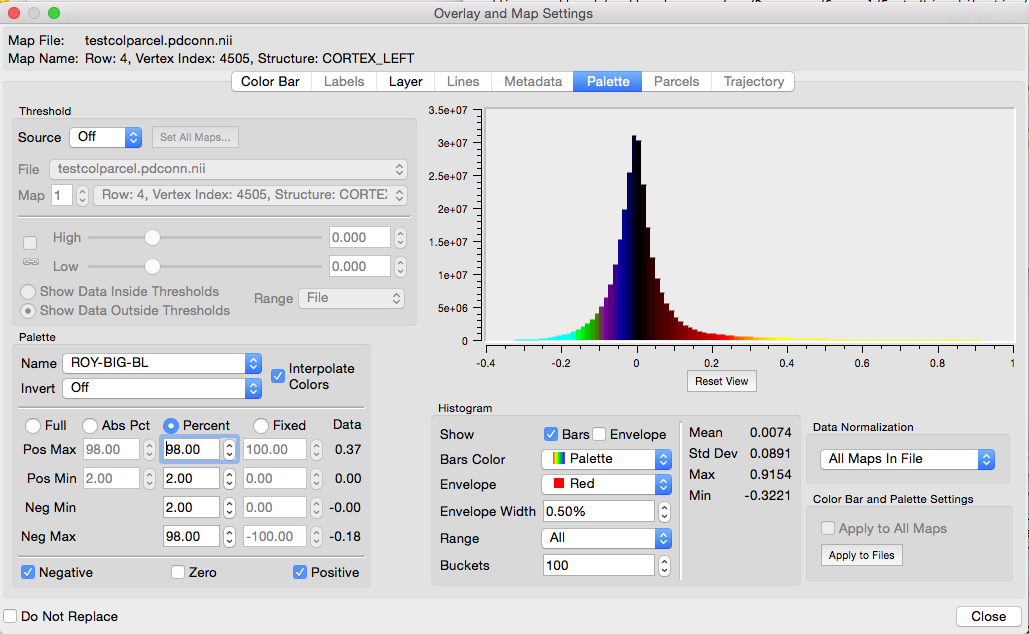
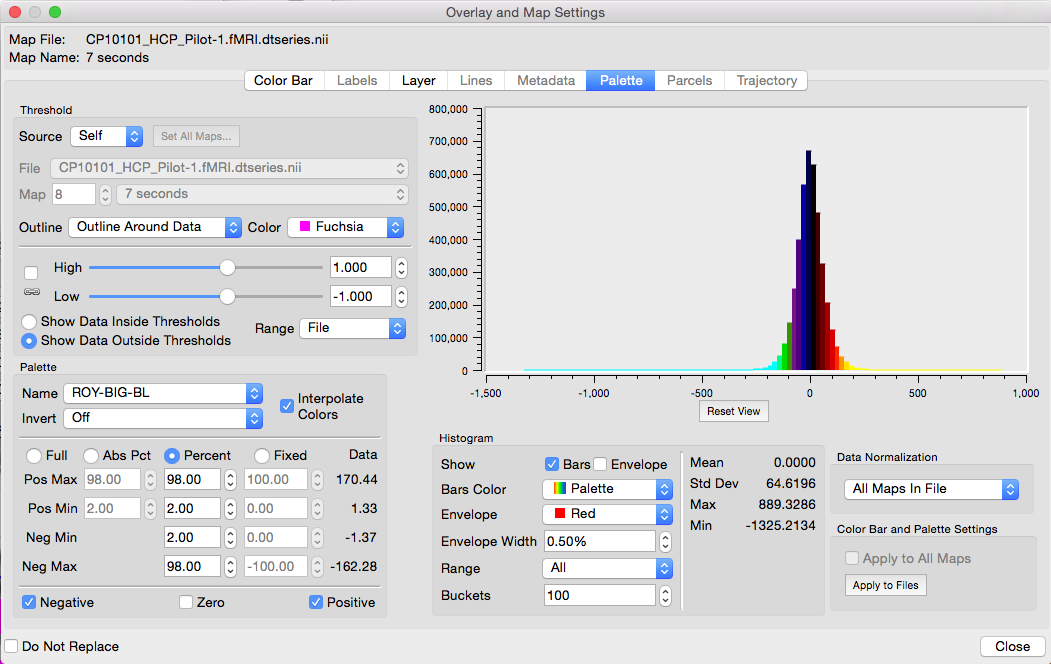
Updated help information with Threshold Outline for Palette Settings and URL fixes for GIFTI and NIFTI help.

Changed region(s): [[0.0, 0.0, 1.0, 1.0], [0.0, 0.959, 0.1244, 0.989]]

diff --git a/src/Resources/Help/HelpFiles/Overlay_Toolbox/Layers/Overlay_and_Map_Settings/Overlay_and_Map_Settings.html b/src/Resources/Help/HelpFiles/Overlay_Toolbox/Layers/Overlay_and_Map_Settings/Overlay_and_Map_Settings.html
@@ -62,6 +62,7 @@
 
 
 
+
                 </b></u><u><b>F</b></u><u><b>iles</b></u></a>.</font> </li>
       </ul>
       <ul>
@@ -101,11 +102,19 @@
               (allows thresholding using a map from the same or
               different file).&nbsp; <b>Range</b> controls the minimum
               and maximum values in the threshold controls.&nbsp; <b>Data
-                Nor</b><b>malization</b> affects the histogram.&nbsp; When
-              <b>All Maps I</b><b>n File</b>, the histogram contains
-              data from all maps in the data file.&nbsp; When <b>Sele</b><b>cted
-                Map in File</b>, the histogram contains the selected map.&nbsp;</font>
-          </li>
+
+                Nor</b><b>malization</b> affects the histogram.&nbsp;
+              When <b>All Maps I</b><b>n File</b>, the histogram
+              contains data from all maps in the data file.&nbsp; When <b>Sele</b><b>cted
+
+                Map in File</b>, the histogram contains the selected
+              map. &nbsp; <b>Outline</b> allows one to draw an outline
+              around thresholded regions using <b>Off</b> (no outlining),
+              <b>Outline Only</b> (Outline is drawn around regions and
+              data within the region is hidden), and <b>Outline Around
+                Data</b> (Outline is drawn around thresholded regions
+              and data within regions is visible).&nbsp; <b>C</b><b>o</b><b>lor</b>
+              selects the outline color.</font> </li>
         </ul>
       </blockquote>
       <blockquote>
@@ -121,6 +130,7 @@
         <ul>
           <li><font face="Calibri"><a
                 href="../../../Mouse_Controls/Mouse_Controls.html"><u><b>Mouse
+
 
 
 
@@ -169,8 +179,8 @@
             </font></font></li>
       </ul>
       <font face="Calibri"><font face="Calibri"><br>
-          <img alt="" src="Palette_Settings.png" width="1029"
-            height="634"><br>
+          <img alt="" src="Palette_Settings.png" width="1051"
+            height="664"><br>
         </font></font><br>
     </font>
   </body>

diff --git a/src/Resources/Help/HelpFiles/Glossary/NIFTI/NIFTI.html b/src/Resources/Help/HelpFiles/Glossary/NIFTI/NIFTI.html
@@ -11,7 +11,7 @@
       neuroimaging.&nbsp; The original NIFTI-1 file format was based on
       16-bit signed integers and was limited to 32,767 in each
       dimension.&nbsp; The NIFTI-2 format (<a
-        href="http://www.nitric.org/forum/message.php?msg_id=3738">http://www.nitric.org/forum/message.php?msg_id=3738</a>)
+        href="http://www.nitrc.org/forum/message.php?msg_id=3738">http://www.nitrc.org/forum/message.php?msg_id=3738</a>)
       is based on 64-bit integers and can handle very large volumes and
       matrices.</font><br>
   </body>

diff --git a/src/Resources/Help/HelpFiles/Glossary/GIFTI/GIFTI.html b/src/Resources/Help/HelpFiles/Glossary/GIFTI/GIFTI.html
@@ -19,7 +19,7 @@ font-family:Calibri;mso-fareast-font-family:Times;mso-bidi-font-family:Calibri">
 
       a file format for surface representations that is supported by
       many major brain mapping visualization platforms (<a
-        href="http://www.nitric.org/projects/gifti">http://www.nitric.org/projects/gifti</a>).</span><span
+        href="http://www.nitrc.org/projects/gifti">http://www.nitrc.org/projects/gifti</a>).</span><span
       style="mso-bidi-font-size:11.0pt;font-family:Calibri;mso-fareast-font-family:
 
 
